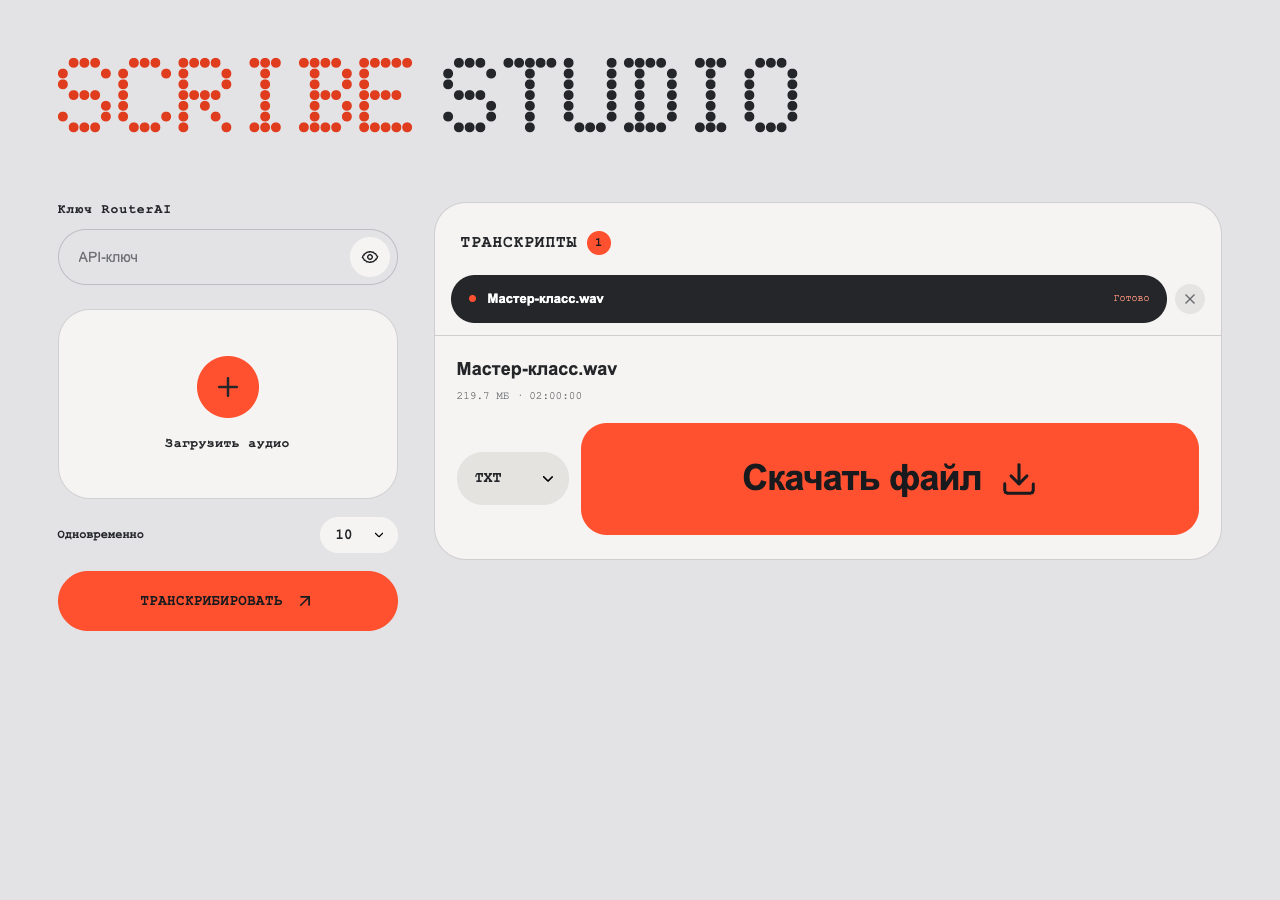
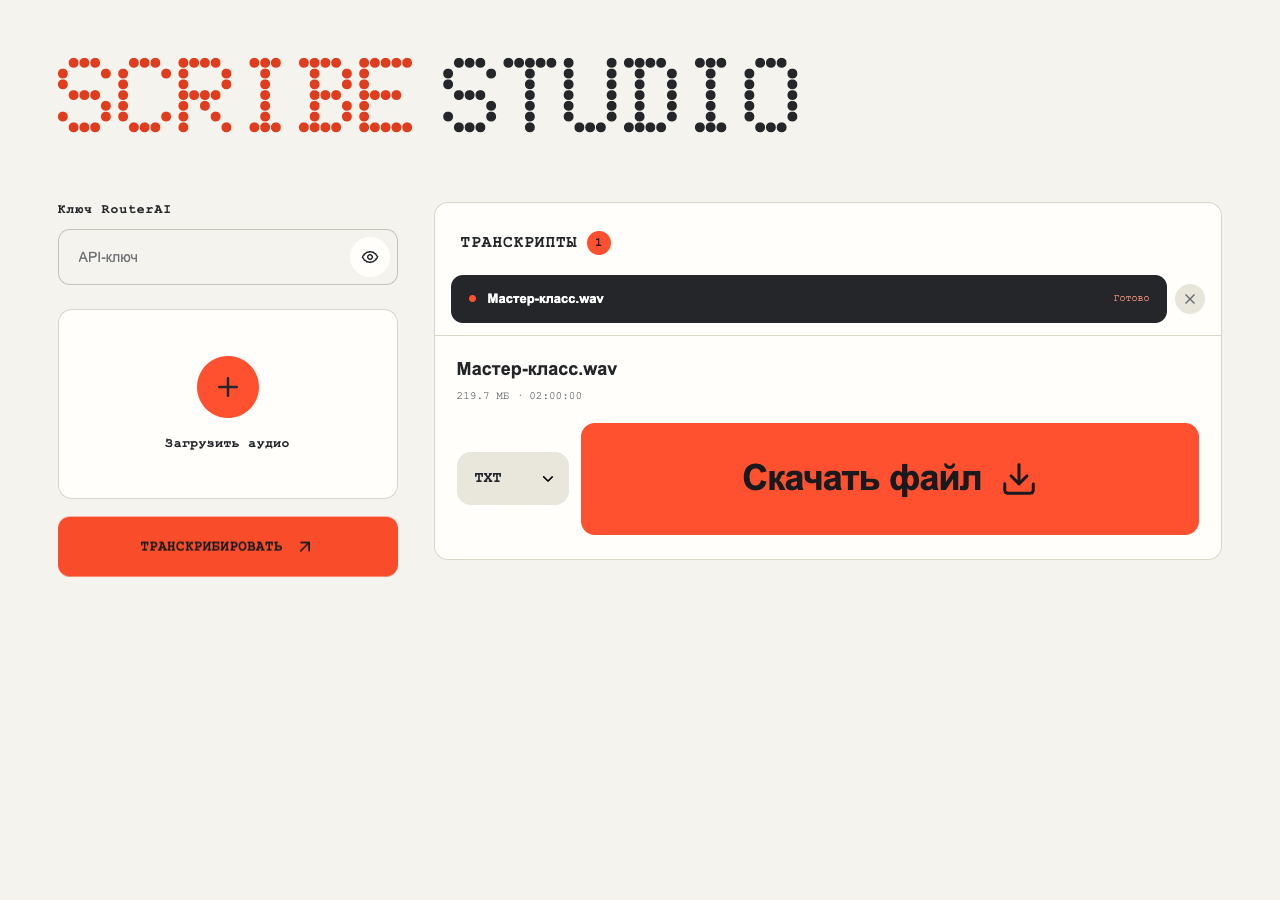
Fix concurrency at ten and use chalk white surfaces

diff --git a/dist/theme.css b/dist/theme.css
@@ -8,12 +8,12 @@
 :root {
   font-family: Arial, Helvetica, sans-serif;
   color: #24262a;
-  background: #e3e3e6;
+  background: #f4f3ed;
   --ink: #24262a;
   --accent: #ff512f;
   --accent-hover: #f04423;
-  --surface: #f5f4f2;
-  --border: #ceced1;
+  --surface: #fffefa;
+  --border: #d9d6ca;
   --muted: #717277;
 }
 header {
@@ -53,7 +53,7 @@ main {
   gap: 36px;
 }
 .card {
-  border-radius: 32px;
+  border-radius: 14px;
   background: var(--surface);
 }
 .controls {
@@ -86,8 +86,8 @@ h1,
   height: 56px;
   padding-left: 20px;
   padding-right: 58px;
-  border-radius: 999px;
-  border-color: #bdbdc2;
+  border-radius: 12px;
+  border-color: #c6c2b6;
   background: transparent;
   color: var(--ink);
   font-size: 14px;
@@ -116,8 +116,8 @@ button:focus-visible {
   min-height: 190px;
   gap: 18px;
   margin-bottom: 18px;
-  border: 1px solid #d0d0d3;
-  border-radius: 32px;
+  border: 1px solid #d8d4c7;
+  border-radius: 14px;
   background: var(--surface);
   color: var(--ink);
   font-size: 13px;
@@ -153,7 +153,7 @@ button:focus-visible {
   gap: 12px;
   min-height: 60px;
   padding: 18px 16px;
-  border-radius: 999px;
+  border-radius: 12px;
   background: var(--accent);
   color: #181a1d;
   font-size: 14px;
@@ -197,7 +197,7 @@ button:focus-visible {
   height: 24px;
   margin: 0;
   padding: 0 6px;
-  border-radius: 999px;
+  border-radius: 12px;
   background: var(--accent);
   color: #181a1d;
   font-size: 12px;
@@ -215,10 +215,10 @@ button:focus-visible {
 .history-item {
   min-height: 48px;
   padding: 14px 18px;
-  border-radius: 999px;
+  border-radius: 12px;
 }
 .history-item:hover {
-  background: #e9e8e6;
+  background: #edeae1;
 }
 .history-item.active {
   background: var(--ink);
@@ -253,7 +253,7 @@ button:focus-visible {
   height: 30px;
   padding: 0;
   border-radius: 50%;
-  background: #e5e4e3;
+  background: #e8e5db;
   color: #66686c;
 }
 .delete:hover,
@@ -264,7 +264,7 @@ button:focus-visible {
 .secondary,
 .text-button {
   border: 0;
-  border-radius: 999px;
+  border-radius: 12px;
   padding: 10px 14px;
   background: var(--accent);
   color: #181a1d;
@@ -301,9 +301,9 @@ button:focus-visible {
   width: 100%;
   max-width: none;
   border: 0;
-  border-radius: 26px;
+  border-radius: 14px;
   padding: 18px 30px 18px 18px;
-  background: #e5e3e0 url("./vendor/lucide/chevron-down.svg") right 12px
+  background: #e9e6db url("./vendor/lucide/chevron-down.svg") right 12px
     center / 18px no-repeat;
   color: var(--ink);
   font-size: 15px;
@@ -317,7 +317,7 @@ button:focus-visible {
   min-height: 112px;
   width: 100%;
   padding: 24px;
-  border-radius: 26px;
+  border-radius: 14px;
   background: var(--accent);
   color: #181a1d;
   font-family: Arial, Helvetica, sans-serif;
@@ -331,30 +331,6 @@ button:focus-visible {
 #download .icon {
   width: 38px;
   height: 38px;
-}
-.parallel-setting {
-  display: flex;
-  align-items: center;
-  justify-content: space-between;
-  gap: 12px;
-  margin: 6px 0 18px;
-}
-.parallel-setting label {
-  margin: 0;
-  font-size: 12px;
-  font-weight: 700;
-}
-.parallel-setting select {
-  appearance: none;
-  min-width: 78px;
-  padding: 10px 30px 10px 16px;
-  border: 0;
-  border-radius: 999px;
-  background: var(--surface) url("./vendor/lucide/chevron-down.svg") right 12px
-    center / 14px no-repeat;
-  font:
-    700 14px "Courier New",
-    monospace;
 }
 .segment button {
   color: #b33a22;
@@ -394,7 +370,7 @@ progress::-moz-progress-bar {
   color: #8b3221;
 }
 #toast {
-  border-radius: 999px;
+  border-radius: 12px;
   background: var(--ink);
   box-shadow: none;
 }
@@ -421,8 +397,8 @@ progress::-moz-progress-bar {
   margin: 0 22px 22px;
   padding: 8px 12px 8px 8px;
   border: 1px solid var(--border);
-  border-radius: 999px;
-  background: #e9e8e6;
+  border-radius: 12px;
+  background: #edeae1;
 }
 .audio-controls button {
   display: grid;
@@ -456,6 +432,14 @@ progress::-moz-progress-bar {
     grid-template-columns: 270px minmax(0, 1fr);
     gap: 24px;
   }
+  .download-controls {
+    grid-template-columns: minmax(0, 1fr);
+  }
+  .download-controls select {
+    justify-self: end;
+    width: auto;
+    min-width: 90px;
+  }
 }
 @media (max-width: 620px) {
   header {
@@ -478,7 +462,7 @@ progress::-moz-progress-bar {
   }
   .card,
   .dropzone {
-    border-radius: 28px;
+    border-radius: 14px;
   }
   .list-heading {
     padding: 24px 22px 20px;
@@ -499,7 +483,7 @@ progress::-moz-progress-bar {
     width: auto;
     min-width: 90px;
     padding: 12px 28px 12px 16px;
-    border-radius: 999px;
+    border-radius: 12px;
     font-size: 12px;
     background-position: right 7px center;
     background-size: 14px;
@@ -507,7 +491,7 @@ progress::-moz-progress-bar {
   #download {
     min-height: 96px;
     padding: 18px 12px;
-    border-radius: 22px;
+    border-radius: 12px;
     gap: 10px;
     font-size: 30px;
     letter-spacing: -0.7px;

diff --git a/dist/app.js b/dist/app.js
@@ -10,7 +10,6 @@ import {
   setSetting,
 } from "./db.js";
 import { exportTexts, timestamp } from "./core.js";
-import { concurrencyLimit } from "./pool.js";
 import { zipSync, strToU8 } from "./vendor/fflate.mjs";
 const $ = (id) => document.getElementById(id),
   element = (tag, text, cls) => {
@@ -222,7 +221,6 @@ async function lockScreen() {
 async function execute(job, file, key, acknowledge = false) {
   busy = true;
   $("start").disabled = true;
-  $("concurrency").disabled = true;
   await lockScreen();
   return new Promise((resolve, reject) => {
     let finished = false;
@@ -237,7 +235,6 @@ async function execute(job, file, key, acknowledge = false) {
       busy = false;
       activeCounts.delete(job.id);
       $("start").disabled = launching;
-      $("concurrency").disabled = launching;
       await wakeLock?.release().catch(() => {});
       wakeLock = null;
       await refresh();
@@ -278,7 +275,6 @@ async function execute(job, file, key, acknowledge = false) {
       apiKey: key,
       acknowledge,
       diarize: true,
-      concurrency: concurrencyLimit($("concurrency").value),
     });
     key = "";
   });
@@ -287,14 +283,12 @@ async function launch(action) {
   if (busy || launching) return;
   launching = true;
   $("start").disabled = true;
-  $("concurrency").disabled = true;
   try {
     return await action();
   } finally {
     launching = false;
     if (!busy) {
       $("start").disabled = false;
-      $("concurrency").disabled = false;
     }
   }
 }
@@ -442,10 +436,6 @@ $("show-key").onclick = () => {
     show ? "Скрыть ключ" : "Показать ключ",
   );
 };
-$("concurrency").onchange = () =>
-  setSetting("concurrency", concurrencyLimit($("concurrency").value)).catch(
-    () => toast("Не удалось сохранить настройку."),
-  );
 $("api-key").oninput = () => {
   setSetting("api-key", $("api-key").value.trim()).catch(() =>
     toast("Не удалось сохранить ключ в браузере."),
@@ -512,9 +502,6 @@ try {
   if (!isSecureContext || !globalThis.indexedDB || !globalThis.Worker)
     throw new Error("Откройте страницу по HTTPS в современном браузере.");
   $("api-key").value = (await getSetting("api-key")) || "";
-  $("concurrency").value = concurrencyLimit(
-    (await getSetting("concurrency")) ?? 10,
-  );
   await recoverInterrupted();
   await refresh();
   if (records.length) await select(records[0].id);

diff --git a/dist/index.html b/dist/index.html
@@ -48,21 +48,6 @@
               accept="audio/*,video/*,.m4a,.wav,.mp3,.flac,.ogg,.webm,.aac,.mp4,.mov,.mkv"
           /></label>
           <div id="selected-files"></div>
-          <div class="parallel-setting">
-            <label for="concurrency">Одновременно</label
-            ><select id="concurrency" aria-label="Одновременных фрагментов">
-              <option value="1">1</option>
-              <option value="2">2</option>
-              <option value="3">3</option>
-              <option value="4">4</option>
-              <option value="5">5</option>
-              <option value="6">6</option>
-              <option value="7">7</option>
-              <option value="8">8</option>
-              <option value="9">9</option>
-              <option value="10" selected>10</option>
-            </select>
-          </div>
           <button class="primary" id="start" type="button">
             <span>Транскрибировать</span
             ><span

diff --git a/dist/worker.js b/dist/worker.js
@@ -86,14 +86,8 @@ async function request(blob, key, diarize) {
     );
   }
 }
-async function run({
-  id,
-  file,
-  apiKey,
-  acknowledge = false,
-  diarize = true,
-  concurrency = 10,
-}) {
+async function run({ id, file, apiKey, acknowledge = false, diarize = true }) {
+  const concurrency = 10;
   let input,
     active = 0,
     failed = false,

diff --git a/README.md b/README.md
@@ -29,7 +29,7 @@
   Каждый запрос содержит менее 20 МиБ аудио — ниже лимита прокси 25 МБ.
 - Две секунды перекрытия дают контекст на стыках. При наличии таймкодов
   слова распределяются по середине перекрытия, а время переводится в общую шкалу.
-- Настройка **«Одновременно»** задаёт от 1 до 10 API-запросов (по умолчанию 10).
+- Одновременно выполняется до **10 API-запросов**. Дополнительной настройки нет.
   WAV готовятся по одному, затем отправляются параллельно. Ответы сохраняются
   независимо от порядка завершения; итоговый файл собирается по времени записи.
 - При паузе или ошибке новые запросы не отправляются. Уже отправленные запросы
